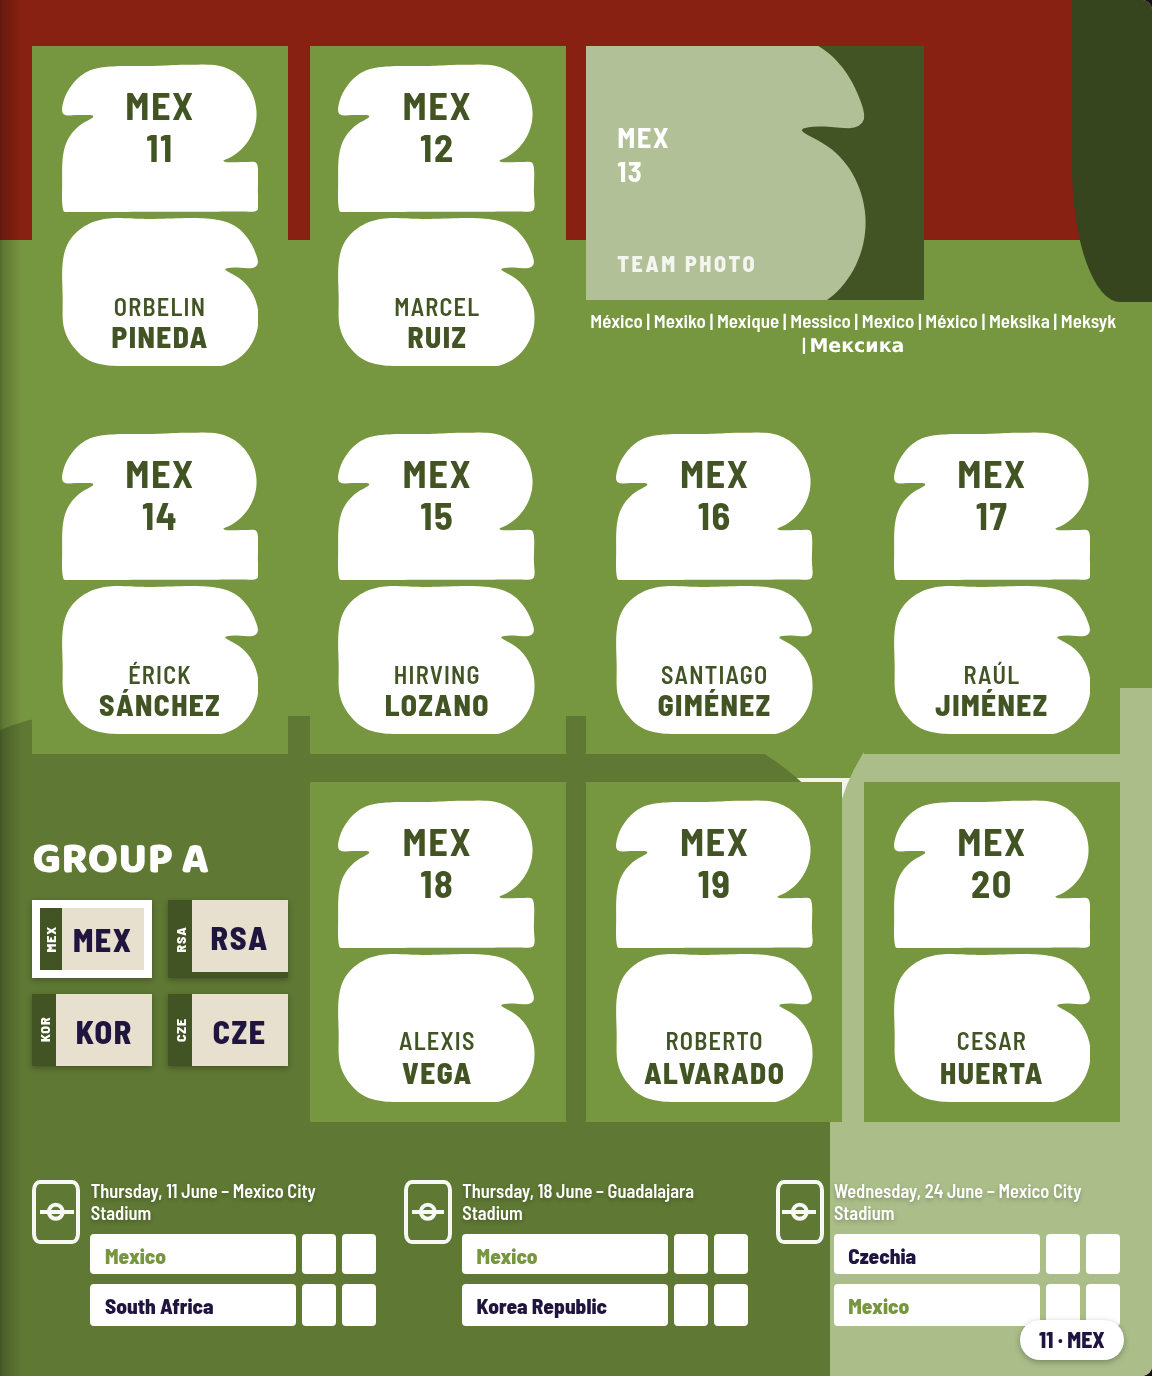
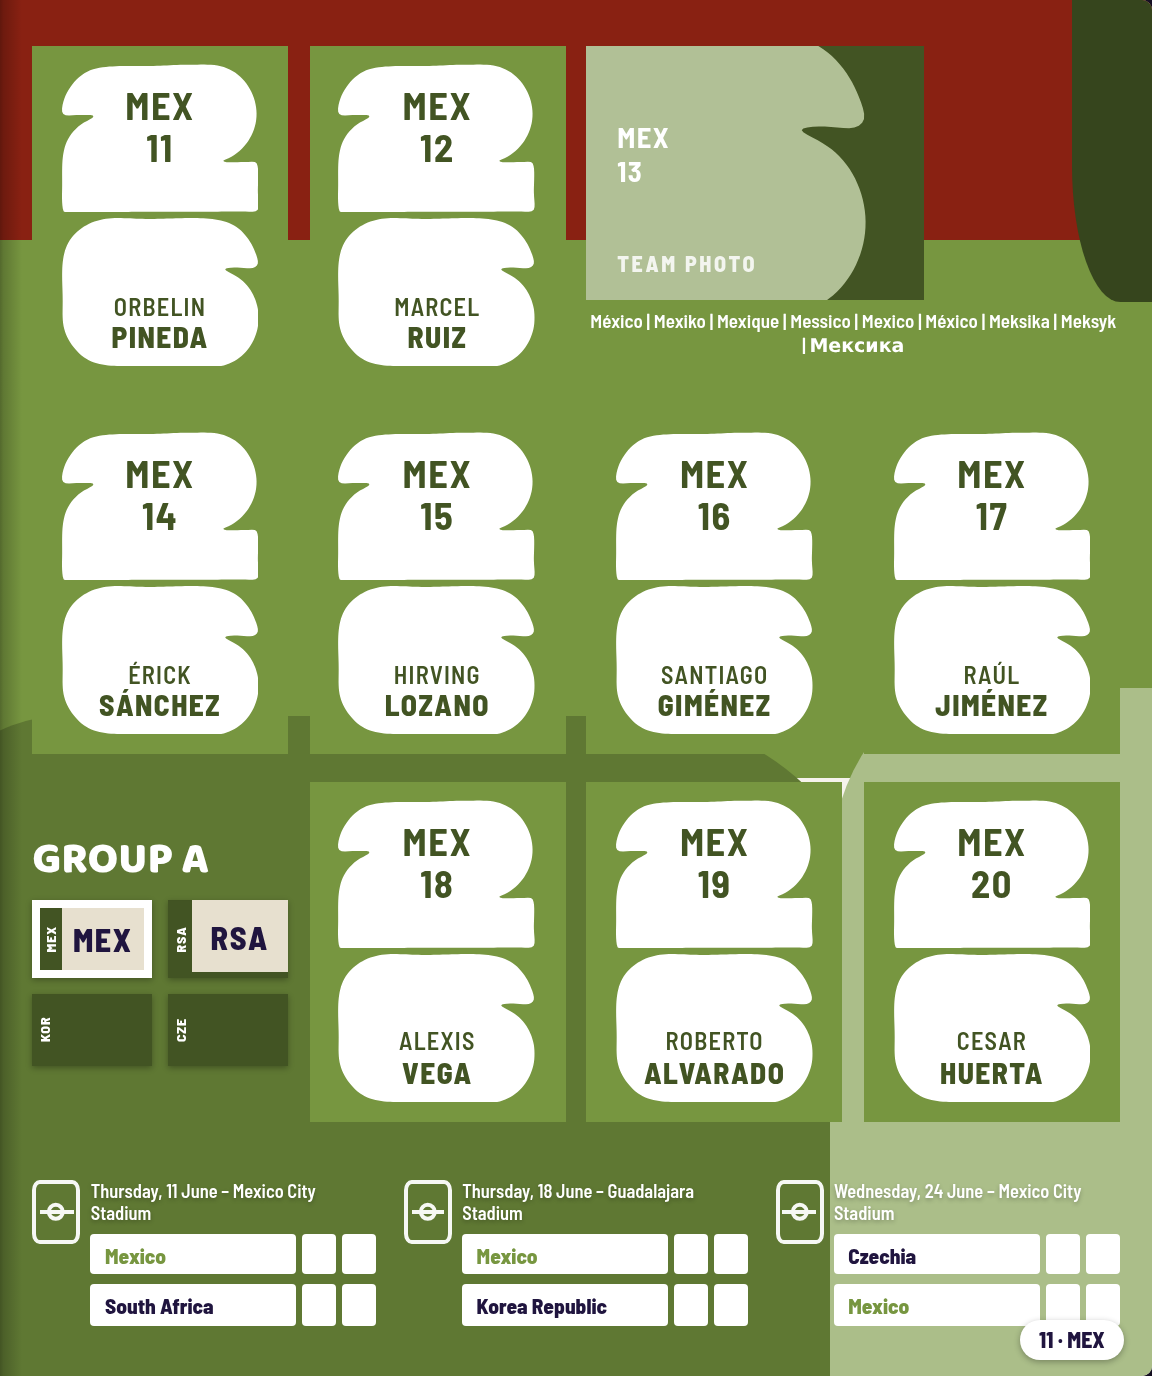
Fv4.4.1: la app del QR interop se llama "Figuritas" (UI + docs)
Renombrado pedido por San: todo lo visible al usuario (toggle FIGURITAS,
caption, alias del cruce, aviso "QR no reconocido") y la documentacion
usan "Figuritas". Los identificadores internos del codigo (umc,
encodeUMC, prefijo) se conservan: nombran el FORMATO de su spec
("UsaMexCan26-QR"), no la app. Check permanente del nombre visible en
fv44 (ahora 25 checks). Regresion completa 276/276.

Claude-Session: https://claude.ai/code/session_01D6xmG9EDWmuaKbg6Gj1zyq

Changed region(s): [[0.0312, 0.7188, 0.25, 0.7812]]

diff --git a/album26/components/AlbumBook.tsx b/album26/components/AlbumBook.tsx
@@ -836,7 +836,7 @@ function panelBtnsHTML(invs: Record<string, InvMap>): string {
     + '<button class="rst' + (repes === 0 ? ' dim' : '') + '" data-panel="repes">REPES (' + repes + ')</button>';
 }
 
-/* ---------- Fv4.4: hoja COMPARTIR (QR nativo + interop UsaMexCan + textos) ---------- */
+/* ---------- Fv4.4: hoja COMPARTIR (QR nativo + interop Figuritas + textos) ---------- */
 type ShareFmt = 'a26' | 'umc';
 type ScanRes = {
   alias: string; sinCantidad: boolean; nDoy: number; nDa: number;
@@ -849,10 +849,10 @@ function shareBodyHTML(sh: ShareCtx): string {
   const rows = (l: string[]) => (l.length ? l.map((x) => '<div class="rg-row">' + x + '</div>').join('') : '<div class="cp-empty">—</div>');
   return '<div class="sh-fmt">'
     + '<button data-share-fmt="a26"' + (sh.fmt === 'a26' ? ' class="on"' : '') + '>ÁLBUM26</button>'
-    + '<button data-share-fmt="umc"' + (sh.fmt === 'umc' ? ' class="on"' : '') + '>USAMEXCAN</button></div>'
+    + '<button data-share-fmt="umc"' + (sh.fmt === 'umc' ? ' class="on"' : '') + '>FIGURITAS</button></div>'
     + '<div class="sh-qrwrap"><canvas id="share-qr" width="260" height="260"></canvas></div>'
     + '<div class="sh-cap">' + (sh.fmt === 'umc'
-      ? 'QR compatible con la app "Usa Mex Can 26" (su formato no lleva cantidades de repes).'
+      ? 'QR compatible con la app "Figuritas" (su formato no lleva cantidades de repes).'
       : 'QR del Álbum26: enlace con tus faltas y repes (con cantidades). Se abre sin cuenta.') + '</div>'
     + '<label class="sh-alias">ALIAS<input id="share-alias" maxlength="24" placeholder="Coleccionista" value="' + escAttr(sh.alias) + '"></label>'
     + '<div class="sh-row">'
@@ -1107,7 +1107,7 @@ export default function AlbumBook() {
     try {
       const share = await import('@/lib/share');
       const fmtd = share.detectFormat(data);
-      if (!fmtd) { avisar('QR no reconocido (ni Álbum26 ni UsaMexCan).'); return; }
+      if (!fmtd) { avisar('QR no reconocido (ni Álbum26 ni Figuritas).'); return; }
       let theirs: { faltan: Set<number>; repes: Map<number, number> };
       let quien = 'Coleccionista';
       let sinCantidad = false;
@@ -1118,7 +1118,7 @@ export default function AlbumBook() {
       } else {
         const d = await share.decodeUMC(data);
         theirs = { faltan: d.faltan, repes: new Map([...d.repes].map((i) => [i, 1])) };
-        quien = 'UsaMexCan';
+        quien = 'Figuritas';
         sinCantidad = true;
       }
       const cr = share.cruce(share.shareSetsOf(invsRef.current), theirs);
@@ -1151,7 +1151,7 @@ export default function AlbumBook() {
         }
         (window as unknown as Record<string, unknown>).__lastQR = payload; // QA + depuración
         const cv = document.getElementById('share-qr') as HTMLCanvasElement | null;
-        // EC: 'H' en UMC (su spec: llevan logo central) · 'M' en nativo (v40-H solo
+        // EC: 'H' en Figuritas/UMC (su spec: llevan logo central) · 'M' en nativo (v40-H solo
         // admite 1273 bytes y una colección a medias los excede; M llega a 2331).
         // margin 4 = quiet zone estándar (con menos, los lectores reales fallan).
         // width 780 con CSS a 260px: nítido en @2x/@3x y decodificable desde PNG.

diff --git a/album26/lib/share.ts b/album26/lib/share.ts
@@ -4,7 +4,8 @@
 //   JSON = { u: alias, t: epoch, r: [[índice, cantidad]] } + f: [faltantes]
 //   O BIEN g: [tengo] (complemento) — se emite la lista MÁS CORTA para que el
 //   QR nunca sea denso en los extremos del progreso; decode materializa f.
-// - INTEROP "Usa Mex Can 26": spec build_handoff k='qr-interop-spec'
+// - INTEROP con la app "Figuritas" (nombre del formato en su spec:
+//   "UsaMexCan26-QR", de ahí el alias interno UMC): build_handoff k='qr-interop-spec'
 //   (md5 f433860dd0a80a1333313c8a1b6f7b55, 5 anclas verificadas):
 //   payload = PREFIJO_BYTES(e7ab99e69591) + b64(gzip(bitmap_faltantes)) + ';'
 //             + b64(gzip(bitmap_repes))
@@ -112,7 +113,7 @@ export async function decodeNative(input: string): Promise<NativePayload> {
   return { u: String(json.u || ''), t: +json.t || 0, f, r: json.r };
 }
 
-// ---------- formato INTEROP UsaMexCan ----------
+// ---------- formato INTEROP Figuritas (alias interno UMC) ----------
 export const UMC_PREFIX_HEX = 'e7ab99e69591';
 const UMC_PREFIX_STR = td.decode(hexToBytes(UMC_PREFIX_HEX)); // los 6 bytes como texto UTF-8
 

diff --git a/docs/DECISIONES.md b/docs/DECISIONES.md
@@ -383,7 +383,7 @@ como paquetes posteriores del orquestador y sustituyen el camino F2/F3 del plan 
   CC=12 verificado. El título del commit de Fv4.2 dice "(25 slots)" por herencia
   del brief v1: se queda TAL CUAL (no se reescribe historial).
 
-## Fv4.4 — Compartir colección: QR nativo + interop UsaMexCan + share WhatsApp
+## Fv4.4 — Compartir colección: QR nativo + interop app "Figuritas" + share WhatsApp
 
 - **Alcance**: tercera pestaña COMPARTIR en el panel Mi colección; sin backend
   nuevo, sin migraciones, adición pura sobre el panel de Fv4.1/4.2.
@@ -395,7 +395,9 @@ como paquetes posteriores del orquestador y sustituyen el camino F2/F3 del plan 
   pequeño en ambos extremos del progreso. `decodeNative` materializa `f` siempre.
   El payload viaja en el FRAGMENT: jamás llega al servidor (privacidad); la ruta
   `/s` es pública en `proxy.ts` y computa el cruce en cliente si hay sesión.
-- **Interop "Usa Mex Can 26"** (spec `build_handoff k='qr-interop-spec'`, md5
+- **Interop con la app "Figuritas"** (así se llama la app; su spec llama al
+  FORMATO "UsaMexCan26-QR" — de ahí el alias interno UMC del código)
+  (spec `build_handoff k='qr-interop-spec'`, md5
   f433860d verificado server+local): prefijo bytes `e7ab99e69591` +
   `b64(gzip(bitmap faltantes))` + `;` + `b64(gzip(bitmap repes))`; bitmaps de
   125 bytes/1000 bits **LSB-first**, bloque1 con semántica invertida (1=ME
@@ -426,13 +428,21 @@ como paquetes posteriores del orquestador y sustituyen el camino F2/F3 del plan 
   cabecera `Me faltan N · Álbum K/992 (P%)` y línea por equipo
   `MEX: 2, 5 (x2)`; ESPECIALES en una línea con códigos completos. Formato
   ESTABLE con snapshot byte-exacto en QA.
-- **QA**: `qa/verify-fv44-share.mjs` (24 checks, `npm run qa:share`) — el e2e de
+- **QA**: `qa/verify-fv44-share.mjs` (25 checks, `npm run qa:share`) — el e2e de
   lectura es genuino: el PNG del QR del contexto A se sube en el contexto B con
   `setInputFiles` → decode → cruce exacto en ambas direcciones. Capturas
   `qa/screenshots/fv44/` (shot-fv44.mjs). Regresión completa:
-  24 + 251 = 275/275. Gate E2E físico pendiente (San, post-deploy): escanear
-  nuestro QR USAMEXCAN con la app real (queda a 2 taps: MI COLECCIÓN →
-  COMPARTIR → toggle USAMEXCAN).
+  25 + 251 = 276/276. Gate E2E físico pendiente (San, post-deploy): escanear
+  nuestro QR FIGURITAS con la app real (queda a 2 taps: MI COLECCIÓN →
+  COMPARTIR → toggle FIGURITAS).
+
+- **Renombrado post-cierre (pedido por San)**: la app interop se llama
+  **"Figuritas"** — todo lo visible al usuario (toggle FIGURITAS, caption,
+  alias del cruce, "QR no reconocido") y la documentación usan ese nombre.
+  Los identificadores del CÓDIGO (`umc`, `encodeUMC`, `UMC_PREFIX_HEX`,
+  `data-share-fmt="umc"`) se conservan: nombran el FORMATO de su spec
+  ("UsaMexCan26-QR"), no la app, y renombrarlos solo añadiría churn. Check
+  permanente del nombre visible en fv44.
 
 ## Mantenimiento — memoria de proyecto y QA versionada
 

diff --git a/CLAUDE.md b/CLAUDE.md
@@ -47,7 +47,7 @@ album26/                  la app (Root Directory en Vercel)
 │   ├── inventory.ts      persistencia conmutable: CloudStore (album_progress, Fv4.0)
 │   │                     con LocalStore de fallback sin configuración
 │   ├── share.ts          Fv4.4: CANON 992 · formato nativo v1 (f o g complemento) ·
-│   │                     interop UsaMexCan (spec k=qr-interop-spec) · cruce · textos
+│   │                     interop app Figuritas (spec k=qr-interop-spec) · cruce · textos
 │   │                     share con FORMATO ESTABLE (snapshot en QA) — carga LAZY
 │   ├── supabase/         client.ts (browser singleton) · server.ts (route handlers)
 │   └── teams.ts          LEGACY (datos F0 Grupo A)
@@ -92,7 +92,8 @@ docs/                     BUILD-PLAN original · DECISIONES (log por fase) ·
 - **Compartir (Fv4.4, contratos estables)**: los textos FALTAN/REPES/cruce tienen
   snapshot byte-exacto en QA — cambiarlos es romper QA a sabiendas. El QR nativo emite
   `f` o `g` (complemento, la lista más corta: con f=991 el QR v40 es ilegible); EC 'M'
-  nativo / 'H' UMC (su spec), margin 4, canvas 780→260 CSS. Interop UsaMexCan: bitmaps
+  nativo / 'H' UMC (su spec), margin 4, canvas 780→260 CSS. Interop con la app
+  "Figuritas" (su spec llama al formato UsaMexCan26-QR; alias interno umc): bitmaps
   125B LSB-first, bloque1 invertido (1=ME FALTA), repes ajenas sin cantidad → x1.
   La `verificacion_ejemplo` de su spec no casa con sus propios bytes (DECISIONES § Fv4.4).
 - **Banderas**: PNG por código FIFA en Supabase Storage (bucket público `flags/`),
@@ -137,5 +138,5 @@ docs/                     BUILD-PLAN original · DECISIONES (log por fase) ·
 | Fv4.0 auth registro abierto + progreso en nube (RLS) | ✅ (validada e2e en prod) | ver `git log` |
 | Fv4.1 panel "Mi colección" (progreso global + repes con copia) | ✅ | ver `git log` |
 | Fv4.2 secciones especiales 00/FWC/CC (+32 slots, 992 total) — censo DEFINITIVO (cierre por San: FWC-9..19 como está, CC=12, sin v3) | ✅ | ver `git log` |
-| Fv4.4 compartir colección (QR nativo + interop UsaMexCan + share texto) — gate E2E físico pendiente (San) | ✅ | ver `git log` |
+| Fv4.4 compartir colección (QR nativo + interop app Figuritas + share texto) — gate E2E físico pendiente (San) | ✅ | ver `git log` |
 | Fv5.0 empaquetado nativo (renumerado) · req #2 imágenes | ⏸ pendientes | — |

diff --git a/album26/qa/README.md b/album26/qa/README.md
@@ -27,11 +27,11 @@ npm run qa:spread   # fv32 (24)     npm run qa:pwa   # fv36 (14)
 npm run qa:verif    # fv33 (18)     npm run qa:grid  # fv37 (24)
 npm run qa:visual   # fv34 (15)     npm run qa:ios   # fv38 (13)
 npm run qa:auth     # fv40 (19)     npm run qa:collection # fv41 (22)
-npm run qa:especiales # fv42 (21)   npm run qa:share # fv44 (24)
+npm run qa:especiales # fv42 (21)   npm run qa:share # fv44 (25)
 ```
 
 Las 12 suites en verde son la regresión completa exigida antes de cada push a `main`
-(estado Fv4.4: 57+24+18+15+24+14+24+13+19+22+21+24 = 275 checks).
+(estado Fv4.4: 57+24+18+15+24+14+24+13+19+22+21+25 = 276 checks).
 
 Variables: `QA_URL` (default `http://localhost:3000/`), `QA_CHROME` (binario Chromium),
 `QA_OUT` (carpeta de screenshots, default `./qa-shots`).
@@ -96,16 +96,17 @@ si algo falla. Los screenshots del gate se guardan en `QA_OUT`.
   ESPECIALES X/32 + repes de especiales, chips FWC/HIST/CC navegan.
 - **verify-fv44-share.mjs** (390×844 @3x, 3 contextos): compartir colección —
   CANON 992 con las anclas de la spec de interop, round-trip nativo
-  encode→decode identidad, anclas UsaMexCan (bits exactos 0/20/33/39/43),
+  encode→decode identidad, anclas Figuritas/UMC (bits exactos 0/20/33/39/43),
   decode del payload real de ejemplo verificado contra sus BYTES (902 bits del
   bitmap → 900 útiles en 0..991 + 22 repes cuyas posiciones fijan LSB-first),
   cruce puro y e2e genuino (el PNG del QR propio del contexto A se sube con
   `setInputFiles` en el contexto B → cruce en ambas direcciones), QR repintado
   tras el re-render del cruce, snapshots byte-exactos de los textos FALTAN/REPES
-  con `navigator.share` mockeado, toggle UsaMexCan (prefijo e7ab99e69591),
+  con `navigator.share` mockeado, toggle FIGURITAS (prefijo e7ab99e69591 y
+  nombre visible de la app),
   lazy-load de share/qrcode/jsqr, presupuesto iOS con la hoja abierta y /s
   pública sin sesión (payload en el fragment). El escaneo con cámara real y la
-  app UsaMexCan física son el gate E2E post-deploy (San).
+  app Figuritas física son el gate E2E post-deploy (San).
 - **shot-fv44.mjs**: capturas del gate Fv4.4 → `qa/screenshots/fv44/` (hoja
   COMPARTIR en ambos formatos, cruce tras subir un QR ajeno, vista /s).
 - **_mock-auth.mjs**: helper compartido — cookies de sesión (qa-session + sb-*) y

diff --git a/README.md b/README.md
@@ -30,7 +30,7 @@ Tracker de la colección de cromos del **álbum oficial Panini del Mundial FIFA 
   HIST / CC) e integrados en el progreso y en los repes. Total del álbum: 992.
 - **Compartir colección (Fv4.4)**: hoja COMPARTIR en el panel con tu **QR** en dos
   formatos — enlace nativo (se abre sin cuenta en `/s`; los datos viajan en el
-  fragment `#…` y no tocan el servidor) o **compatible con la app "Usa Mex Can 26"**
+  fragment `#…` y no tocan el servidor) o **compatible con la app "Figuritas"**
   —, alias editable, **Escanear QR** (cámara) o **Subir imagen QR**, y al leer el QR
   de otro coleccionista el **cruce local**: "le puedes dar / te puede dar" con
   cantidades. Botones "Compartir FALTAN/REPES" como texto (Web Share API o
@@ -49,7 +49,7 @@ album26/          la app (Next.js 16 App Router + TypeScript, sin Tailwind)
 │                 login/ · auth/ · s/ (vista pública de colección compartida)
 ├── components/   AlbumBook.tsx (motor + visual del libro) · AlbumPage.tsx (legacy F0)
 ├── lib/          album-data.ts (GENERADO, no editar a mano) · inventory.ts (persistencia)
-│                 · share.ts (QR nativo + interop UsaMexCan + textos de compartir)
+│                 · share.ts (QR nativo + interop con la app Figuritas + textos de compartir)
 ├── public/       fuente FWC26 · manifest.webmanifest · sw.js
 ├── qa/           suites Playwright de regresión permanente (ver qa/README.md)
 └── supabase/     schema.sql para F1 (sin aplicar)
@@ -88,7 +88,7 @@ npm run qa:ios     # presupuesto composición iOS + safe-areas nativas (13)
 npm run qa:auth    # auth + progreso en nube con mocks (19)
 npm run qa:collection # panel Mi colección (22)
 npm run qa:especiales # secciones especiales 00/FWC/CC (21)
-npm run qa:share   # compartir: QR nativo + interop + cruce e2e (24)
+npm run qa:share   # compartir: QR nativo + interop + cruce e2e (25)
 ```
 
 Desde Fv4.0 el server de QA corre con `QA_AUTH_MOCK=1` (el sandbox no llega a

diff --git a/album26/README.md b/album26/README.md
@@ -24,7 +24,7 @@ npm run qa:ios     # fv38 · presupuesto iOS + safe-areas nativas (13)
 npm run qa:auth    # fv40 · auth + progreso en nube con mocks (19)
 npm run qa:collection # fv41 · panel Mi colección (22)
 npm run qa:especiales # fv42 · secciones especiales 00/FWC/CC (21)
-npm run qa:share   # fv44 · compartir: QR nativo + interop UsaMexCan + cruce (24)
+npm run qa:share   # fv44 · compartir: QR nativo + interop Figuritas + cruce (25)
 ```
 
 Las suites necesitan la app corriendo con `QA_AUTH_MOCK=1` (`QA_URL`, default
@@ -57,7 +57,8 @@ lib/
 ├── inventory.ts      InventoryStore (loadAll/loadCountry/put/clear) · CloudStore
 │                     (album_progress, Fv4.0) · LocalStore de fallback
 ├── share.ts          Fv4.4 (carga LAZY): CANON 992 · QR nativo v1 (f o g complemento)
-│                     · interop UsaMexCan (bitmaps 125B LSB-first, prefijo e7ab99e69591)
+│                     · interop con la app "Figuritas" (formato UsaMexCan26-QR de su
+│                     spec, alias interno UMC: bitmaps 125B LSB-first, prefijo e7ab99e69591)
 │                     · cruce · textos share con formato ESTABLE (snapshot en QA)
 ├── supabase/         client.ts (browser singleton) · server.ts (route handlers)
 └── teams.ts          LEGACY F0
@@ -85,5 +86,5 @@ supabase/             migrations/0001_album_progress.sql (DDL de referencia, YA 
 - **Motor UI**: builders HTML-string + delegación de eventos + rebuild de innerHTML.
   No migrar a JSX granular sin paquete que lo pida.
 - **Compartir (Fv4.4)**: los textos FALTAN/REPES/cruce tienen snapshot byte-exacto en
-  QA (formato estable); el QR usa EC M nativo / H UsaMexCan, margin 4, canvas 780.
+  QA (formato estable); el QR usa EC M nativo / H Figuritas, margin 4, canvas 780.
   Las librerías qrcode/jsqr SOLO se cargan lazy (presupuesto iOS).

diff --git a/docs/PENDIENTES.md b/docs/PENDIENTES.md
@@ -88,10 +88,10 @@ ni Android SDK): el repo queda listo para `npx cap sync` + build local.
   (ese fichero sí lo añado yo al repo cuando llegue).
 
 ## Fv4.4 — Compartir colección: ✅ HECHO, pendiente gate E2E físico (San)
-- **GATE FÍSICO post-deploy**: escanear nuestro QR **USAMEXCAN** con la app
-  "Usa Mex Can 26" real (y si se puede, a la inversa: escanear el suyo con
+- **GATE FÍSICO post-deploy**: escanear nuestro QR **FIGURITAS** con la app
+  "Figuritas" real (y si se puede, a la inversa: escanear el suyo con
   nuestro "Escanear QR" o "Subir imagen QR"). El QR interop queda a 2 taps:
-  MI COLECCIÓN → COMPARTIR → toggle USAMEXCAN. Criterio: su app lee nuestro
+  MI COLECCIÓN → COMPARTIR → toggle FIGURITAS. Criterio: su app lee nuestro
   payload (prefijo e7ab99e69591, bitmaps LSB-first, EC H para su logo central).
 - Sus repes se importan **como x1** (su formato no lleva cantidades; la UI del
   cruce lo indica). Nota reportada en fv44-status: la `verificacion_ejemplo` de

diff --git a/docs/ERRORES.md b/docs/ERRORES.md
@@ -198,7 +198,7 @@ Formato: **Síntoma → Causa raíz → Fix → Guardarraíl**.
 - **Fix**: `margin: 4` + canvas interno 780px (mostrado a 260 CSS) + formato v1
   con **complemento**: se emite `f` (faltantes) o `g` (tengo), la lista más
   corta — el QR queda pequeño en ambos extremos del progreso. EC 'M' en nativo
-  (v40-H tope 1273 bytes; M 2331) y 'H' solo en UsaMexCan (su spec, logo central).
+  (v40-H tope 1273 bytes; M 2331) y 'H' solo en Figuritas (su spec, logo central).
 - **Guardarraíl**: el e2e de fv44 decodifica el PNG real del canvas (contexto B).
 
 ### La nota de verificación de la spec interop no casa con sus propios bytes
